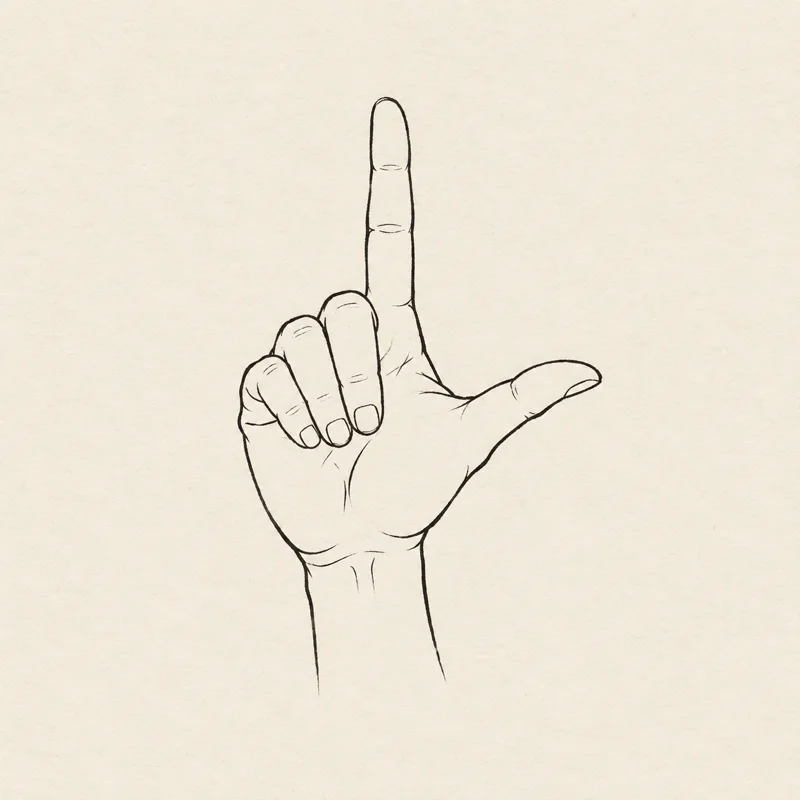
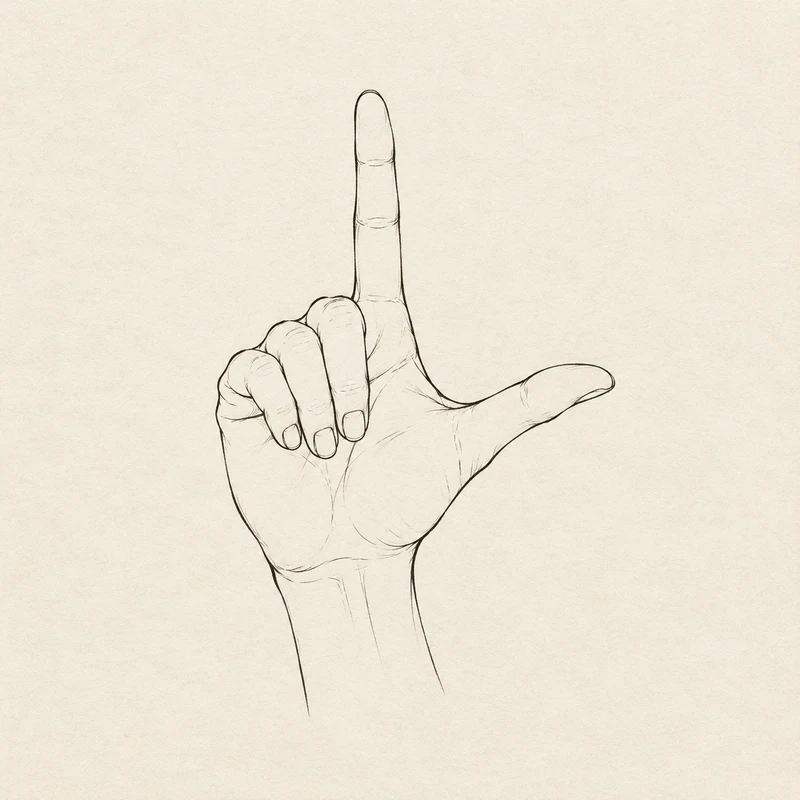
首页习字页轮换 30 个字母白描配图：按 GF 0021-2019 书本描述生成全套手型图，每次加载随机展示一个字母

diff --git a/practice/index.html b/practice/index.html
@@ -23,7 +23,16 @@
         <p class="hero-intro">从认识一个手型开始。看清示范，试着比一比，<br class="desktop-break" />按自己的节奏练习汉语手指字母。</p>
         <div class="hero-actions"><a class="button primary" href="./learn.html">开始学习 <span aria-hidden="true">↗</span></a><a class="text-link" href="#learning-path">先了解怎么练 <span aria-hidden="true">↓</span></a></div>
       </div>
-      <div class="hero-art" aria-hidden="true"><div class="paper-sheet"><span class="paper-caption">手指字母 · 习字页</span><img class="hero-figure" src="./content/art/hero-l.webp" alt="" decoding="async" /><span class="paper-letter">L <small>从一个手型开始</small></span><span class="paper-stamp">日有所学</span></div></div>
+      <div class="hero-art" aria-hidden="true"><div class="paper-sheet"><span class="paper-caption">手指字母 · 习字页</span><img class="hero-figure" id="hero-figure" src="./content/art/hero-l.webp" alt="" decoding="async" /><span class="paper-letter"><span id="hero-letter">L</span> <small>从一个手型开始</small></span><span class="paper-stamp">日有所学</span></div></div>
+      <script>
+        (function () {
+          var letters = ["A","B","C","CH","D","E","F","G","H","I","J","K","L","M","N","NG","O","P","Q","R","S","SH","T","U","V","W","X","Y","Z","ZH"];
+          var pick = letters[Math.floor(Math.random() * letters.length)];
+          var img = document.getElementById("hero-figure");
+          img.src = "./content/art/hero-" + pick.toLowerCase() + ".webp";
+          document.getElementById("hero-letter").textContent = pick;
+        })();
+      </script>
     </section>
     <section id="learning-path" class="learning-path" aria-labelledby="path-title">
       <div class="section-heading"><p class="eyebrow">今天，学一点</p><h2 id="path-title">先看清，再动手。</h2><p>不急着记住所有字母，一次练好一个。</p></div>
